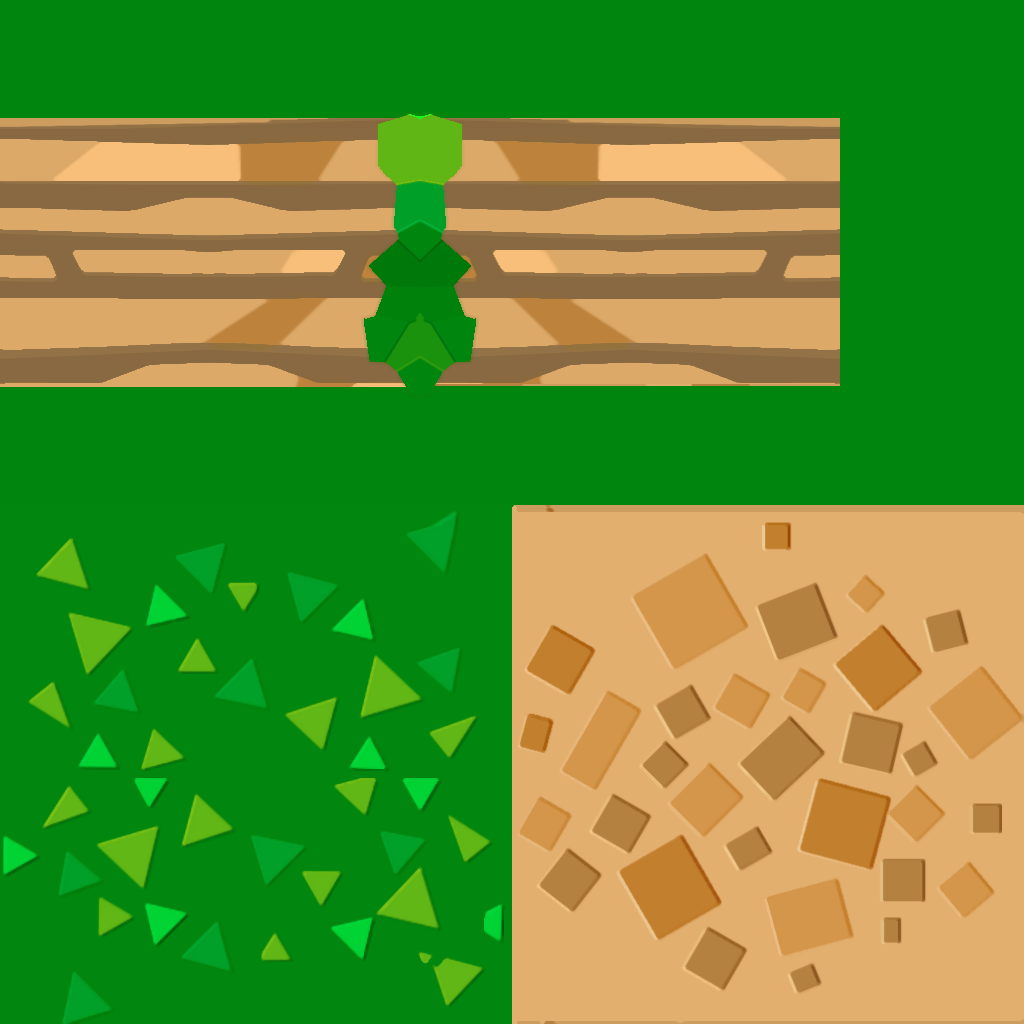
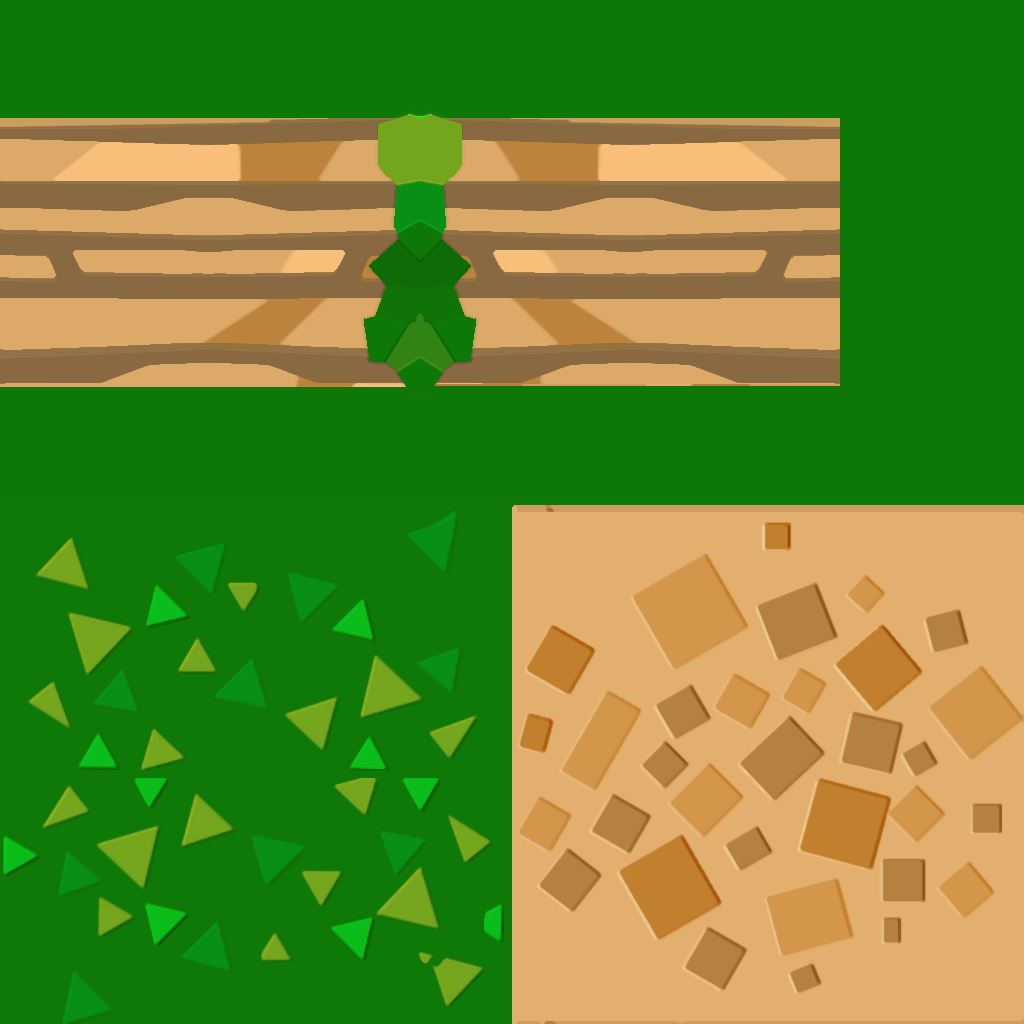
Darkened grass and moon light changes as night progresses.

diff --git a/src/kosmos/entities/components/ComponentCelestial.java b/src/kosmos/entities/components/ComponentCelestial.java
@@ -24,7 +24,7 @@ public class ComponentCelestial extends IComponentEntity implements IComponentEd
 	private Vector3f startPosition;
 	private Vector3f startRotation;
 
-	private boolean sunsetColours;
+	private LightType lightType;
 
 	/**
 	 * Creates a new ComponentCelestial.
@@ -32,18 +32,19 @@ public class ComponentCelestial extends IComponentEntity implements IComponentEd
 	 * @param entity The entity this component is attached to.
 	 */
 	public ComponentCelestial(Entity entity) {
-		this(entity, false);
+		this(entity, LightType.NONE);
 	}
 
 	/**
 	 * Creates a new ComponentCelestial.
 	 *
 	 * @param entity The entity this component is attached to.
+	 * @param lightType
 	 */
-	public ComponentCelestial(Entity entity, boolean sunsetColours) {
+	public ComponentCelestial(Entity entity, LightType lightType) {
 		super(entity);
 
-		this.sunsetColours = sunsetColours;
+		this.lightType = lightType;
 
 		if (entity != null) {
 			this.startPosition = new Vector3f(entity.getPosition());
@@ -65,12 +66,21 @@ public class ComponentCelestial extends IComponentEntity implements IComponentEd
 
 		getEntity().setMoved();
 
-		if (sunsetColours) {
+		if (lightType != LightType.NONE) {
 			ComponentLight componentLight = (ComponentLight) getEntity().getComponent(ComponentLight.class);
 
 			if (componentLight != null) {
-				Colour.interpolate(KosmosWorld.SUN_COLOUR_SUNRISE, KosmosWorld.SUN_COLOUR_NIGHT, KosmosWorld.getSunriseFactor(), componentLight.getLight().getColour());
-				Colour.interpolate(componentLight.getLight().getColour(), KosmosWorld.SUN_COLOUR_DAY, KosmosWorld.getShadowFactor(), componentLight.getLight().getColour());
+				switch (lightType) {
+					case SUN:
+						Colour.interpolate(KosmosWorld.SUN_COLOUR_SUNRISE, KosmosWorld.SUN_COLOUR_NIGHT, KosmosWorld.getSunriseFactor(), componentLight.getLight().getColour());
+						Colour.interpolate(componentLight.getLight().getColour(), KosmosWorld.SUN_COLOUR_DAY, KosmosWorld.getShadowFactor(), componentLight.getLight().getColour());
+						break;
+					case MOON:
+						Colour.interpolate(KosmosWorld.MOON_COLOUR_NIGHT, KosmosWorld.MOON_COLOUR_DAY, KosmosWorld.getShadowFactor(), componentLight.getLight().getColour());
+						break;
+					case NONE:
+						break;
+				}
 			}
 		}
 	}
@@ -85,15 +95,19 @@ public class ComponentCelestial extends IComponentEntity implements IComponentEd
 
 	@Override
 	public Pair<String[], String[]> getSaveValues(String entityName) {
-		String saveSunsetColours = sunsetColours + "";
+		String saveLightType = lightType.name();
 
 		return new Pair<>(
 				new String[]{}, // Static variables
-				new String[]{saveSunsetColours} // Class constructor
+				new String[]{saveLightType} // Class constructor
 		);
 	}
 
 	@Override
 	public void dispose() {
+	}
+
+	public static enum LightType {
+		SUN, MOON, NONE
 	}
 }

diff --git a/src/kosmos/KosmosConfigs.java b/src/kosmos/KosmosConfigs.java
@@ -29,7 +29,7 @@ import org.lwjgl.glfw.*;
 public class KosmosConfigs {
 	// Main configs.
 	private static final Config CONFIG_MAIN = new Config(new MyFile(Framework.getRoamingFolder(), "configs", "settings.conf"));
-	public static final ConfigData PROFILER_OPEN = CONFIG_MAIN.getData(ConfigSection.DEBUG, "profilerOpen", false, FlounderProfiler::isOpen);
+	public static final ConfigData WIREFRAME_ENABLED = CONFIG_MAIN.getData(ConfigSection.DEBUG, "wireframeEnabled", false, FlounderProfiler::isOpen);
 	public static final ConfigData BOUNDINGS_RENDER = CONFIG_MAIN.getData(ConfigSection.DEBUG, "boundingsRender", false, FlounderBounding::renders);
 
 	public static final ConfigData MUSIC_ENABLED = CONFIG_MAIN.getData(ConfigSection.AUDIO, "musicEnabled", true);
@@ -61,7 +61,7 @@ public class KosmosConfigs {
 	public static final ConfigData POST_TILTSHIFT_ENABLED = CONFIG_MAIN.getData(ConfigSection.POST, "tiltShiftEnabled", true, KosmosPost::isTiltShiftEnabled);
 	public static final ConfigData POST_LENSFLARE_ENABLED = CONFIG_MAIN.getData(ConfigSection.POST, "lensFlareEnabled", true, KosmosPost::isLensFlareEnabled);
 	public static final ConfigData POST_CRT_ENABLED = CONFIG_MAIN.getData(ConfigSection.POST, "crtEnabled", false, KosmosPost::isCrtEnabled);
-	public static final ConfigData POST_GRAIN_ENABLED = CONFIG_MAIN.getData(ConfigSection.POST, "grainEnabled", false, KosmosPost::isCrtEnabled);
+	public static final ConfigData POST_GRAIN_ENABLED = CONFIG_MAIN.getData(ConfigSection.POST, "grainEnabled", false, KosmosPost::isGrainEnabled);
 
 	public static final ConfigData HUD_COSSHAIR_TYPE = CONFIG_MAIN.getData(ConfigSection.CONTROLS, "hudCrosshairType", 1); // Reference set in master overlay.
 	public static final ConfigData CAMERA_SENSITIVITY = CONFIG_MAIN.getData(ConfigSection.CONTROLS, "cameraSensitivity", 1.0f); // Reference set in camera.

diff --git a/src/kosmos/world/KosmosWorld.java b/src/kosmos/world/KosmosWorld.java
@@ -54,7 +54,8 @@ public class KosmosWorld extends Module {
 	public static final Colour SUN_COLOUR_SUNRISE = new Colour(0.7f, 0.4f, 0.3f);
 	public static final Colour SUN_COLOUR_DAY = new Colour(0.7f, 0.7f, 0.7f);
 
-	public static final Colour MOON_COLOUR = new Colour(0.1f, 0.1f, 0.3f);
+	public static final Colour MOON_COLOUR_NIGHT = new Colour(0.2f, 0.2f, 0.3f);
+	public static final Colour MOON_COLOUR_DAY = new Colour(0.0f, 0.0f, 0.0f);
 
 	public static final float DAY_NIGHT_CYCLE = 420.0f; // The day/night length (sec).
 
@@ -80,8 +81,9 @@ public class KosmosWorld extends Module {
 	public void init() {
 		this.noise = new PerlinNoise(KosmosConfigs.SAVE_SEED.setReference(() -> noise.getSeed()).getInteger());
 
-		this.entityMoon = new InstanceMoon(FlounderEntities.getEntities(), new Vector3f(250.0f, 250.0f, 250.0f), new Vector3f(0.0f, 0.0f, 0.0f));
+		this.entityPlayer = null;
 		this.entitySun = new InstanceSun(FlounderEntities.getEntities(), new Vector3f(-250.0f, -250.0f, -250.0f), new Vector3f(0.0f, 0.0f, 0.0f));
+		this.entityMoon = new InstanceMoon(FlounderEntities.getEntities(), new Vector3f(250.0f, 250.0f, 250.0f), new Vector3f(0.0f, 0.0f, 0.0f));
 
 		this.playerQue = new HashMap<>();
 		this.players = new HashMap<>();

diff --git a/src/kosmos/NewKosmos.java b/src/kosmos/NewKosmos.java
@@ -12,6 +12,7 @@ package kosmos;
 import flounder.devices.*;
 import flounder.framework.*;
 import flounder.framework.updater.*;
+import flounder.helpers.*;
 import flounder.physics.bounding.*;
 import flounder.profiling.*;
 import flounder.resources.*;
@@ -20,7 +21,7 @@ import kosmos.camera.*;
 import org.lwjgl.glfw.*;
 
 public class NewKosmos extends Framework {
-	public static final String VERSION = "4.16";
+	public static final String VERSION = "4.17";
 
 	public static void main(String[] args) {
 		new NewKosmos().run();
@@ -42,6 +43,7 @@ public class NewKosmos extends Framework {
 		setFpsLimit(KosmosConfigs.FRAMEWORK_FPS_LIMIT.getInteger());
 		FlounderTextures.setup(KosmosConfigs.TEXTURES_ANISOTROPY_MAX.getFloat());
 		FlounderBounding.toggle(KosmosConfigs.BOUNDINGS_RENDER.getBoolean());
-		FlounderProfiler.toggle(KosmosConfigs.PROFILER_OPEN.getBoolean());
+		OpenGlUtils.goWireframe(KosmosConfigs.WIREFRAME_ENABLED.getBoolean());
+		FlounderProfiler.toggle(KosmosConfigs.WIREFRAME_ENABLED.getBoolean());
 	}
 }

diff --git a/src/kosmos/entities/instances/InstanceMoon.java b/src/kosmos/entities/instances/InstanceMoon.java
@@ -9,6 +9,7 @@ import flounder.models.*;
 import flounder.resources.*;
 import flounder.space.*;
 import flounder.textures.*;
+import kosmos.entities.components.*;
 import kosmos.world.*;
 
 /// Automatically generated entity source
@@ -22,11 +23,11 @@ public class InstanceMoon extends Entity {
 
 	public InstanceMoon(ISpatialStructure<Entity> structure, Vector3f position, Vector3f rotation) {
 		super(structure, position, rotation);
-		new kosmos.entities.components.ComponentCelestial(this, false);
+		new ComponentCelestial(this, ComponentCelestial.LightType.MOON);
 		new ComponentModel(this, 10.0f, MODEL, TEXTURE, 1);
 		new ComponentGlow(this, TEXTURE_GLOW);
 		new ComponentSurface(this, 1.0f, 0.0f, true, true);
-		new ComponentLight(this, new Vector3f(0.0f, 0.0f, 0.0f), new Colour(KosmosWorld.MOON_COLOUR), new Attenuation(1.0f, 0.0f, 0.0f));
+		new ComponentLight(this, new Vector3f(0.0f, 0.0f, 0.0f), new Colour(KosmosWorld.MOON_COLOUR_NIGHT), new Attenuation(1.0f, 0.0f, 0.0f));
 	}
 }
 

diff --git a/src/kosmos/entities/instances/InstanceSun.java b/src/kosmos/entities/instances/InstanceSun.java
@@ -9,6 +9,7 @@ import flounder.models.*;
 import flounder.resources.*;
 import flounder.space.*;
 import flounder.textures.*;
+import kosmos.entities.components.*;
 import kosmos.world.*;
 
 /// Automatically generated entity source
@@ -22,11 +23,11 @@ public class InstanceSun extends Entity {
 
 	public InstanceSun(ISpatialStructure<Entity> structure, Vector3f position, Vector3f rotation) {
 		super(structure, position, rotation);
-		new kosmos.entities.components.ComponentCelestial(this, true);
+		new ComponentCelestial(this, ComponentCelestial.LightType.SUN);
 		new ComponentModel(this, 16.0f, MODEL, TEXTURE, 1);
 		new ComponentGlow(this, TEXTURE_GLOW);
-		new ComponentLight(this, new Vector3f(0.0f, 0.0f, 0.0f), new Colour(KosmosWorld.SUN_COLOUR_DAY), new Attenuation(1.0f, 0.0f, 0.0f));
 		new ComponentSurface(this, 1.0f, 0.0f, true, true);
+		new ComponentLight(this, new Vector3f(0.0f, 0.0f, 0.0f), new Colour(KosmosWorld.SUN_COLOUR_DAY), new Attenuation(1.0f, 0.0f, 0.0f));
 	}
 }
 

diff --git a/src/kosmos/entities/instances/InstanceMuliplayer.java b/src/kosmos/entities/instances/InstanceMuliplayer.java
@@ -6,6 +6,7 @@ import flounder.maths.vectors.*;
 import flounder.resources.*;
 import flounder.space.*;
 import flounder.textures.*;
+import kosmos.entities.components.*;
 
 /// Automatically generated entity source
 /// Date generated: 29.3.2017 - 12:20
@@ -17,7 +18,7 @@ public class InstanceMuliplayer extends Entity {
 
 	public InstanceMuliplayer(ISpatialStructure<Entity> structure, Vector3f position, Vector3f rotation, String username) {
 		super(structure, position, rotation);
-		new kosmos.entities.components.ComponentMultiplayer(this, username);
+		new ComponentMultiplayer(this, username);
 		new ComponentAnimation(this, 0.2f, COLLADA, TEXTURE, 1);
 		new ComponentSurface(this, 1.0f, 0.0f, false, false);
 		//	new flounder.entities.components.ComponentLight(this, new Vector3f(0.0f, 2.0f, 0.0f), new Colour(1.0f, 1.0f, 1.0f), new Attenuation(1.0f, 0.02f, 0.5f));

diff --git a/src/kosmos/entities/instances/InstancePlayer.java b/src/kosmos/entities/instances/InstancePlayer.java
@@ -6,6 +6,7 @@ import flounder.maths.vectors.*;
 import flounder.resources.*;
 import flounder.space.*;
 import flounder.textures.*;
+import kosmos.entities.components.*;
 
 /// Automatically generated entity source
 /// Date generated: 30.3.2017 - 12:8
@@ -17,7 +18,7 @@ public class InstancePlayer extends Entity {
 
 	public InstancePlayer(ISpatialStructure<Entity> structure, Vector3f position, Vector3f rotation) {
 		super(structure, position, rotation);
-		new kosmos.entities.components.ComponentPlayer(this);
+		new ComponentPlayer(this);
 		new ComponentAnimation(this, 0.2f, COLLADA, TEXTURE, 1);
 		new ComponentSurface(this, 1.0f, 0.0f, false, false);
 		//	new flounder.entities.components.ComponentLight(this, new Vector3f(0.0f, 2.0f, 0.0f), new Colour(1.0f, 1.0f, 1.0f), new Attenuation(1.0f, 0.02f, 0.5f));

diff --git a/src/kosmos/entities/components/ComponentPlayer.java b/src/kosmos/entities/components/ComponentPlayer.java
@@ -68,9 +68,9 @@ public class ComponentPlayer extends IComponentEntity implements IComponentRende
 		this.moveAmount = new Vector3f();
 		this.rotateAmount = new Vector3f();
 
-	//	PlayRequest request = PlayRequest.new3dSoundPlayRequest(IMaterial.Materials.GRASS.getMaterial().getSoundWalk(), 1.0f, 1.0f, getEntity().getPosition(), 0.0f, 10.0f);
-	//	request.setLooping(true);
-	//	FlounderSound.playSystemSound(IMaterial.Materials.GRASS.getMaterial().getSoundWalk());
+		//	PlayRequest request = PlayRequest.new3dSoundPlayRequest(IMaterial.Materials.GRASS.getMaterial().getSoundWalk(), 1.0f, 1.0f, getEntity().getPosition(), 0.0f, 10.0f);
+		//	request.setLooping(true);
+		//	FlounderSound.playSystemSound(IMaterial.Materials.GRASS.getMaterial().getSoundWalk());
 	}
 
 	@Override
